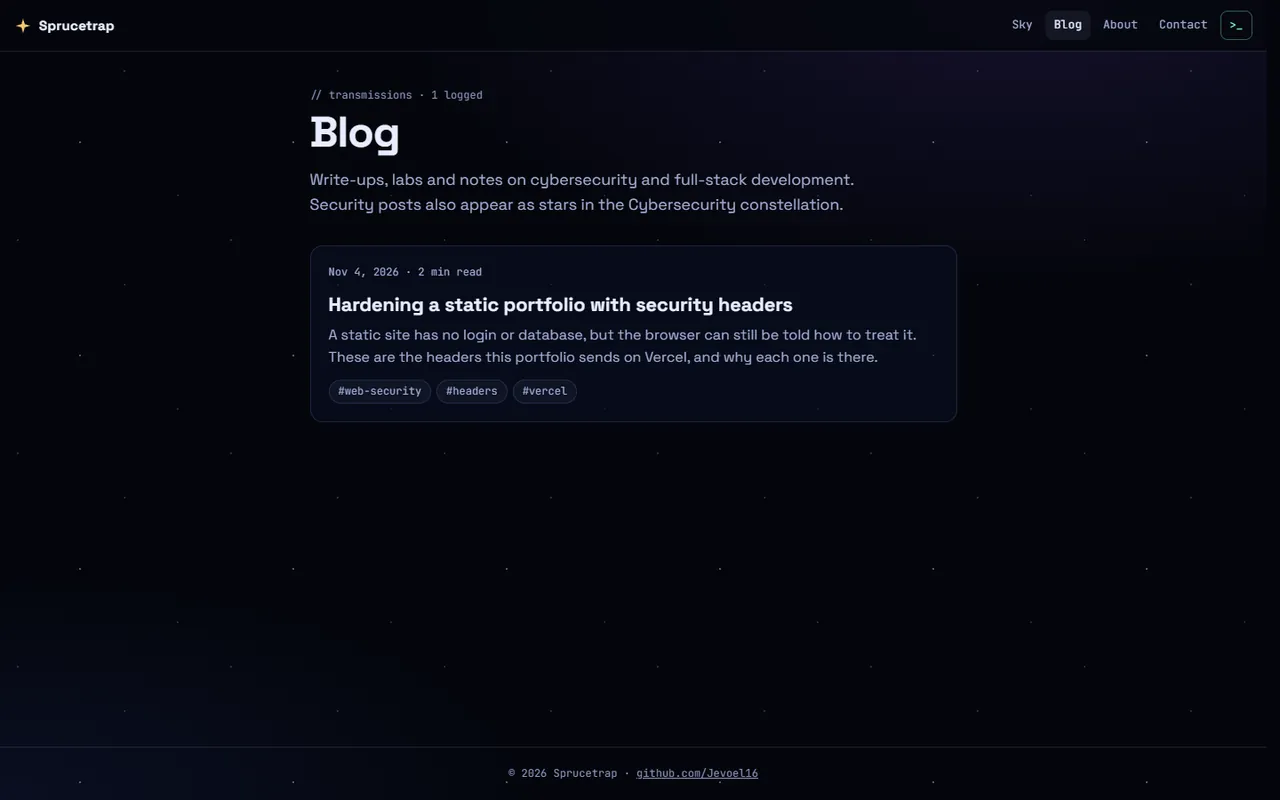
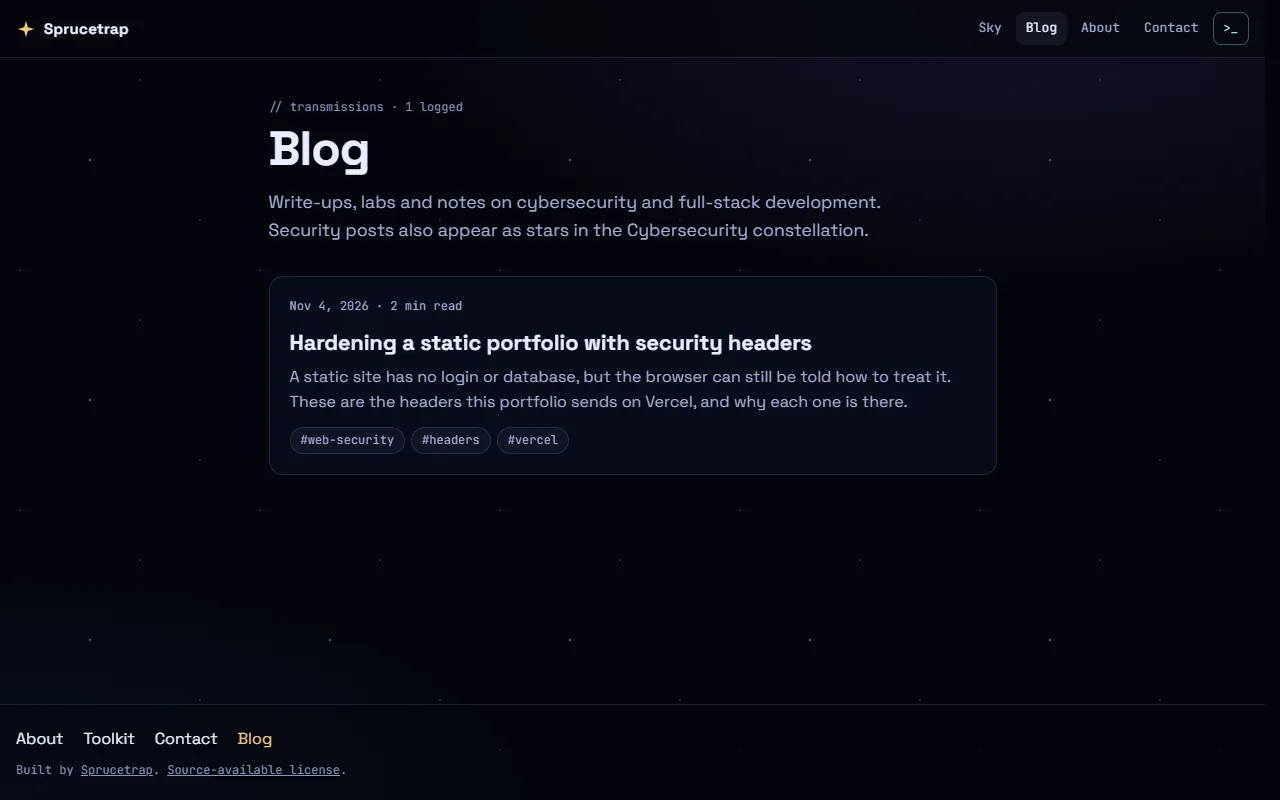
docs: match README to the new lean template
- Drop the license badge and the Contributing, License and Author sections (they live in the repo files and sidebar)
- Put CI first in the badge row and add a React 18 badge
- Add the hero screenshot and an Architecture section with a Mermaid diagram
- Link docs/decisions.md from About instead of the live URL
- Add start, lint, format and typecheck to Scripts and ESLint and Prettier to Tech Stack
- Retake the blog index screenshot with the new footer

diff --git a/README.md b/README.md
@@ -8,22 +8,24 @@
 
 **A cybersecurity × full-stack portfolio you scroll through like a flight across the night sky.**
 
-![Version](https://img.shields.io/badge/version-2.4.7-informational?style=flat)
-![License](https://img.shields.io/badge/license-Sprucetrap%20Source--Available-orange?style=flat)
 [![CI](https://img.shields.io/github/actions/workflow/status/Jevoel16/Portfolio/ci.yml?branch=main&label=CI&style=flat)](https://github.com/Jevoel16/Portfolio/actions/workflows/ci.yml)
+![Version](https://img.shields.io/badge/version-2.4.7-informational?style=flat)
 ![Platform](https://img.shields.io/badge/platform-web%20%7C%20mobile-success?style=flat)
+![React](https://img.shields.io/badge/React-18-blue?style=flat)
 
 </div>
 
+<img src="docs/images/home-sky.webp" width="100%" alt="Home section: the Sprucetrap title over the 3D night sky with constellations, planets and the section rail">
+
 <p align="center">
-  <a href="#about">About</a> · <a href="#screenshots">Screenshots</a> · <a href="#features">Features</a> · <a href="#tech-stack">Tech Stack</a> · <a href="#getting-started">Getting Started</a> · <a href="#usage">Usage</a> · <a href="#more">More</a> · <a href="#contributing">Contributing</a> · <a href="#license">License</a> · <a href="#author">Author</a>
+  <a href="#about">About</a> · <a href="#screenshots">Screenshots</a> · <a href="#features">Features</a> · <a href="#tech-stack">Tech Stack</a> · <a href="#architecture">Architecture</a> · <a href="#getting-started">Getting Started</a> · <a href="#usage">Usage</a> · <a href="#more">More</a>
 </p>
 
 ---
 
 ## About
 
-My personal portfolio and blog, built as an interactive 3D night sky: every skill is a constellation, every project is a star, and Spruce, a holographic guide, answers in the Contact section. It shows recruiters and collaborators my cybersecurity and full-stack work in one place. Live at **[jevoelorbilla.dev](https://www.jevoelorbilla.dev)**.
+My personal portfolio and blog, built as an interactive 3D night sky: every skill is a constellation, every project is a star, and Spruce, a holographic guide, answers in the Contact section. It shows recruiters and collaborators my cybersecurity and full-stack work in one place. The choices behind it are in [docs/decisions.md](docs/decisions.md).
 
 ## Screenshots
 
@@ -72,13 +74,26 @@ Full details: [docs/features.md](docs/features.md).
 
 ## Tech Stack
 
-| Layer          | Tools                                                                       |
-| -------------- | --------------------------------------------------------------------------- |
-| UI             | React 18.3.1, TypeScript 5.6.3, React Router 7.18.5                         |
-| 3D             | three.js 0.170.0, React Three Fiber 8.18.0, drei 9.122.0                    |
-| Build and blog | Vite 6.4.5, marked 15.0.12, Shiki 3.23.0, prerendered with `renderToString` |
-| Testing        | Vitest 5.1.0                                                                |
-| Hosting        | Vercel with Vercel Web Analytics 2.0.1, GitHub Actions CI                   |
+| Layer               | Tools                                                                       |
+| ------------------- | --------------------------------------------------------------------------- |
+| UI                  | React 18.3.1, TypeScript 5.6.3, React Router 7.18.5                         |
+| 3D                  | three.js 0.170.0, React Three Fiber 8.18.0, drei 9.122.0                    |
+| Build and blog      | Vite 6.4.5, marked 15.0.12, Shiki 3.23.0, prerendered with `renderToString` |
+| Testing and quality | Vitest 5.1.0, ESLint 10.15.0, Prettier 3.10.1                               |
+| Hosting             | Vercel with Vercel Web Analytics 2.0.1, GitHub Actions CI                   |
+
+## Architecture
+
+```mermaid
+flowchart LR
+  Browser --> Vercel[Vercel: prerendered HTML + assets]
+  Vercel --> App[React app]
+  App --> Sky[3D sky, lazy-loaded]
+  App --> Blog[Blog posts compiled at build time]
+  App --> Static[Static SVG map fallback]
+```
+
+How the scroll, camera, loading and motion code fits together: [docs/architecture.md](docs/architecture.md). State machines: [docs/state-machines.md](docs/state-machines.md). Performance: [docs/performance.md](docs/performance.md).
 
 ## Getting Started
 
@@ -101,8 +116,6 @@ npm run dev        # http://localhost:5173
 Guides: [using the site](docs/usage.md) · [editing content and writing posts](docs/content.md) · [deployment, SEO and analytics](docs/deployment.md).
 
 ## More
-
-How the scroll, camera, loading and motion code fits together: [docs/architecture.md](docs/architecture.md).
 
 <details>
 <summary><b>Project structure</b></summary>
@@ -128,23 +141,14 @@ Portfolio/
 | -------------------- | -------------------------------------------------------------------------------------------- |
 | `npm run dev`        | Start the Vite dev server on port 5173 (also on your LAN)                                    |
 | `npm run build`      | Type-check, build, then prerender every route plus `sitemap.xml` and `llms.txt` into `dist/` |
-| `npm run preview`    | Serve the production build locally                                                           |
+| `npm start`          | Serve the production build locally (`npm run preview` does the same)                         |
 | `npm test`           | Run the Vitest suite once                                                                    |
 | `npm run test:watch` | Run Vitest in watch mode                                                                     |
+| `npm run lint`       | Lint with ESLint                                                                             |
+| `npm run format`     | Format with Prettier                                                                         |
+| `npm run typecheck`  | Type-check without building                                                                  |
 | `npm run smoke`      | Smoke-test the live site (`npm run smoke -- <url>` for another deploy)                       |
 
 </details>
-
-## Contributing
-
-Branch as `feat/…` or `fix/…` and use [Conventional Commits](https://www.conventionalcommits.org/) ending with the bumped SemVer version, e.g. `feat: add CSV export (v1.4.0)`. Run `npm test` and `npm run build` first, and update this README (and its screenshots in `docs/images/`) with every change.
-
-## License
-
-Released under the [Sprucetrap Source-Available License 1.0](LICENSE): free for non-commercial use with visible credit.
-
-## Author
-
-**Sprucetrap** ([@Jevoel16](https://github.com/Jevoel16)), personal portfolio.
 
 <p align="right"><a href="#top">Back to top</a></p>
